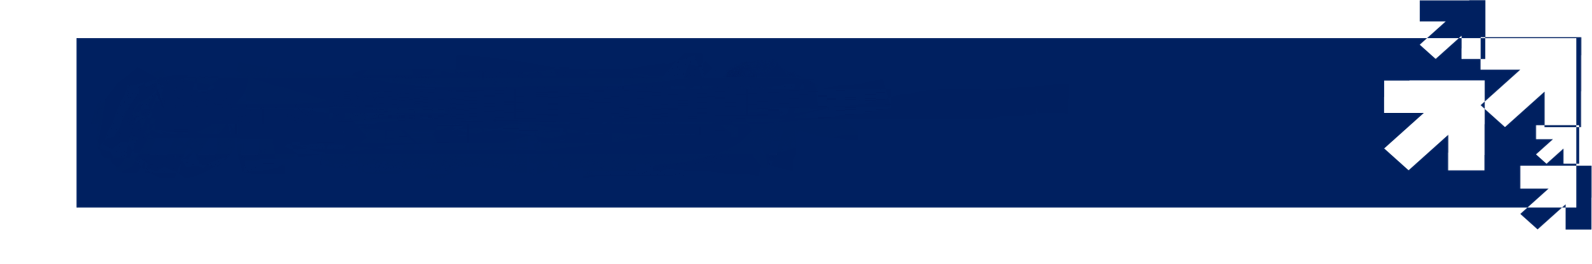
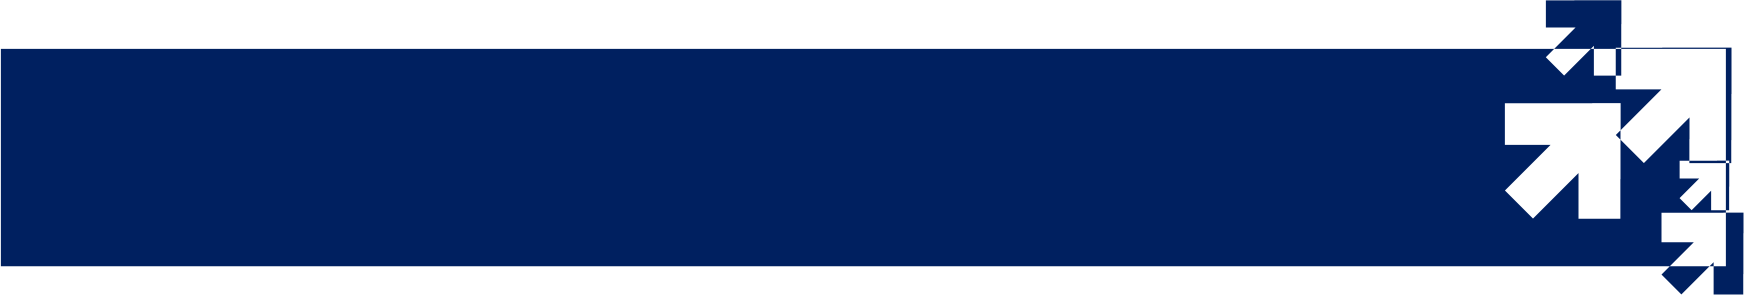
header covers

Changed region(s): [[0.0, 0.0, 1.0, 1.0]]

diff --git a/public/css/styles.css b/public/css/styles.css
@@ -2030,3 +2030,20 @@ h1 .circle-anim:after {
     position: relative;
     top: -30.5%;
 }
+
+.header_normal_cover{
+	background-image: url('../images/header.png'); 
+	height: 187px;
+	background-size: cover;
+}
+
+.header_ubnormal_cover{
+	background-image: url('../images/bg_ers.png'); 
+	height: 187px;
+	background-size: cover;
+}
+
+.header_normal_cover h2, .header_ubnormal_cover h2{
+	color: white; 
+	padding-top: 5%;
+}

diff --git a/public/js/logo_animation.js b/public/js/logo_animation.js
@@ -51,6 +51,5 @@ $('.logo_pic1')
 $('.bg_logo')
 .delay(5000)
 .animate({
-    opacity:0,
-    display:'none'
-}, 200);
+    opacity:0
+}, 200).fadeOut();

diff --git a/resources/views/site/ers.blade.php b/resources/views/site/ers.blade.php
@@ -4,7 +4,10 @@
 
 @section('content')
     <div class="container clearfix full-width">
-        <h2 class="header">{{ trans('locale.ascension').trans('locale.ers') }}</h2>
+        <div class="header_ubnormal_cover">
+            <h2 class="header">{{ trans('locale.ascension').trans('locale.ers') }}</h2>
+        </div>
+
         <div class="tab-content">
             <div class="col-sm-12">
                 <div class="col-sm-6">

diff --git a/resources/views/site/cpa.blade.php b/resources/views/site/cpa.blade.php
@@ -4,7 +4,9 @@
 
 @section('content')
     <div class="container clearfix full-width">
-        <h2 class="header">{{ trans('locale.cpa_program') }}</h2>
+        <div class="header_normal_cover">
+            <h2 class="header">{{ trans('locale.cpa_program') }}</h2>
+        </div>
         <div class="tab-content">
             <div class="col-sm-12">
                 <img src="{{ asset('images/cpa_logo.jpg') }}" >

diff --git a/resources/views/site/bookkeeping.blade.php b/resources/views/site/bookkeeping.blade.php
@@ -4,7 +4,9 @@
 
 @section('content')
     <div class="container clearfix full-width">
-        <h2 class="header">{{ trans('locale.bookkeeping') }}</h2>
+        <div class="header_normal_cover">
+            <h2 class="header">{{ trans('locale.bookkeeping') }}</h2>
+        </div>
         <div class="tab-content">
             <div class="col-sm-12">
                 <div class="col-sm-6">

diff --git a/resources/views/includes/main.blade.php b/resources/views/includes/main.blade.php
@@ -2,9 +2,8 @@
 <html class="nojs html" lang="en-US">
 <script src="http://code.jquery.com/jquery-1.11.0.min.js"></script>
 @include('includes.header')
-<body class="sliphover-active">
+<body>
     <div class="wrapper">
-        @include('includes.logo')
         @include('includes.sidebar')
         <div id="content">
             <div id="fixed-barrier"></div>

diff --git a/resources/views/includes/logo.blade.php b/resources/views/includes/logo.blade.php
@@ -8,4 +8,4 @@
     <img src="{{ asset('images/Picture4.png') }}" class="logo_pic4">
 </div>
 
-<script src="{{ asset('/js/logo_animation.js') }}"></script>   
+<script src="{{ asset('/js/logo_animation.js') }}"></script>

diff --git a/resources/views/site/home.blade.php b/resources/views/site/home.blade.php
@@ -3,5 +3,7 @@
 @section('title', trans('locale.home'))
 
 @section('content')
+        @include('includes.logo')
+
     @include('includes.slider')
 @stop
